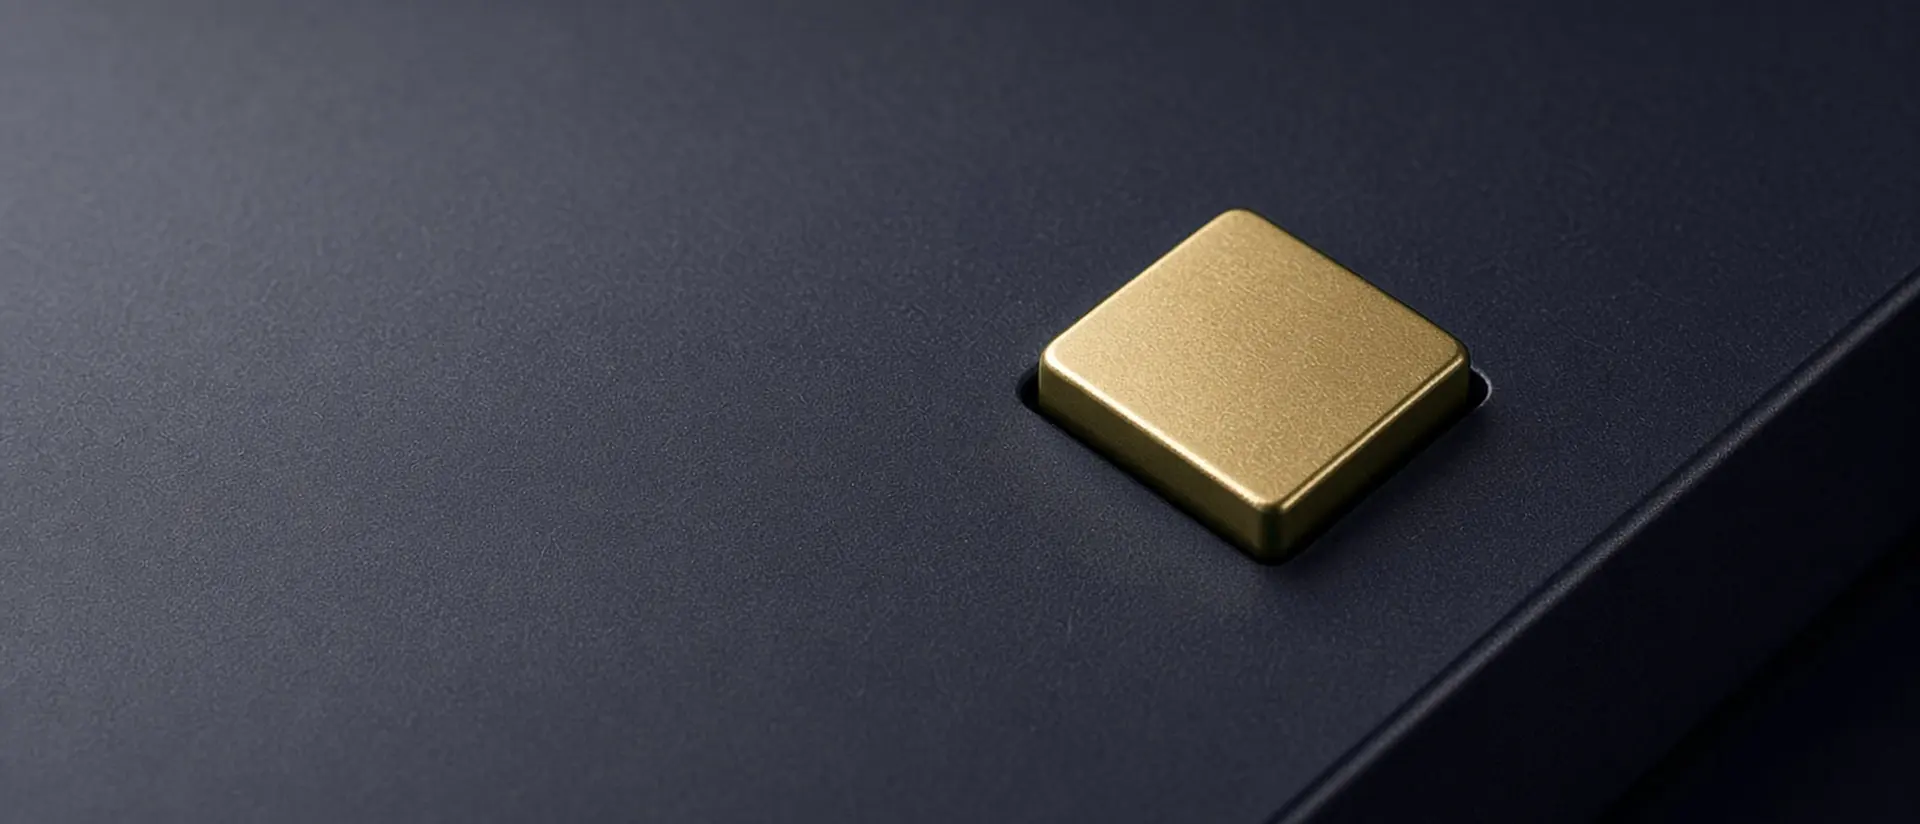
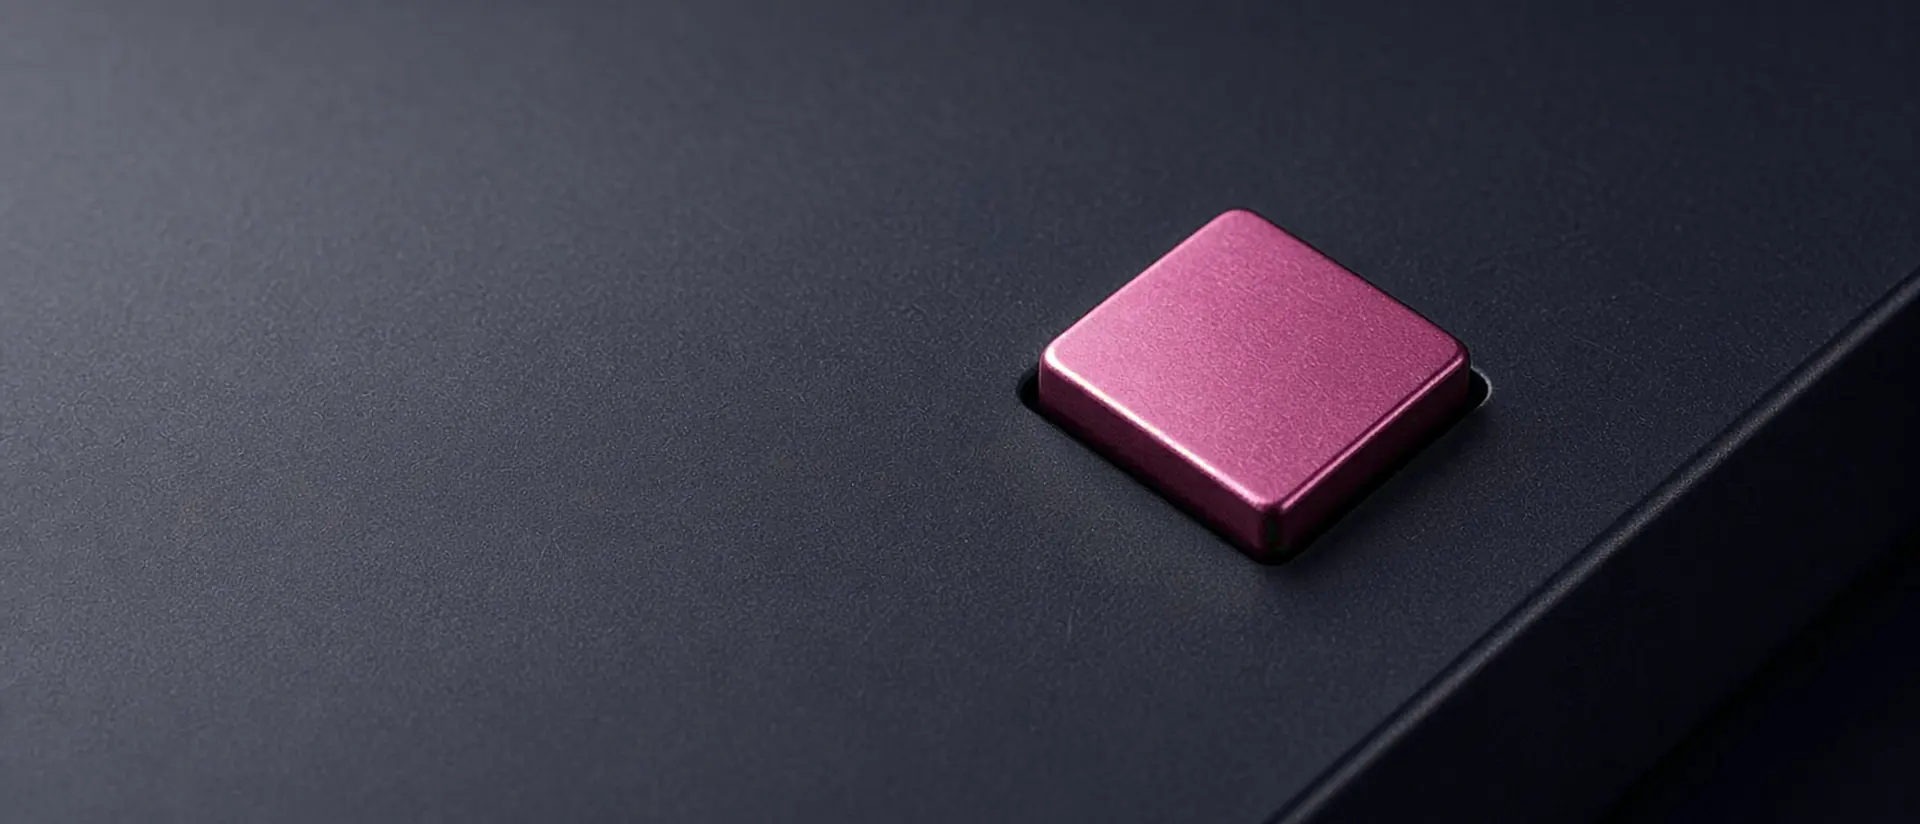
Visual audit fixes: violet for non-approval accents, pink approval key photo, wordmark weight, header fit
Claude-Session: https://claude.ai/code/session_01HaviUaj5fPJgmAg8BZKgUa

Changed region(s): [[0.5312, 0.2427, 0.7812, 0.6675]]

diff --git a/app/globals.css b/app/globals.css
@@ -49,6 +49,7 @@
   --color-cyan: var(--cyan);
   --color-cyan-ink: var(--cyan-ink);
   --color-violet: var(--violet);
+  --color-violet-hi: var(--violet-hi);
   --color-error: var(--error);
   --color-line: var(--line);
   --color-body: var(--body);
@@ -1612,9 +1613,9 @@ input[type="range"]::-moz-range-thumb {
     gap: 12px;
     margin: 0 16px 16px;
     padding: 12px 14px;
-    border: 1px solid rgb(244 114 182 / 0.35);
+    border: 1px solid rgb(139 92 246 / 0.35);
     border-radius: 10px;
-    background: rgb(244 114 182 / 0.08);
+    background: rgb(139 92 246 / 0.08);
     color: var(--ivory-64);
     font-size: 13px;
     line-height: 1.4;
@@ -1627,7 +1628,7 @@ input[type="range"]::-moz-range-thumb {
     height: 28px;
     place-items: center;
     border-radius: 9999px;
-    background: var(--gold);
+    background: var(--violet-hi);
     color: var(--obsidian);
   }
 
@@ -1705,9 +1706,9 @@ input[type="range"]::-moz-range-thumb {
   }
 
   .scope-card[data-first] {
-    border-color: rgb(244 114 182 / 0.45);
+    border-color: rgb(139 92 246 / 0.45);
     box-shadow:
-      0 0 0 4px rgb(244 114 182 / 0.08),
+      0 0 0 4px rgb(139 92 246 / 0.08),
       0 30px 60px -40px rgb(0 0 0 / 0.8);
   }
 
@@ -1718,7 +1719,7 @@ input[type="range"]::-moz-range-thumb {
   }
 
   .scope-num {
-    color: rgb(245 246 251 / 0.35);
+    color: rgb(245 246 251 / 0.45);
     font-family: var(--font-mono);
     font-size: 44px;
     font-weight: 600;
@@ -1759,10 +1760,10 @@ input[type="range"]::-moz-range-thumb {
       height: 28px;
       place-items: center;
       transform: translate(50%, -50%);
-      border: 1px solid rgb(244 114 182 / 0.5);
+      border: 1px solid rgb(139 92 246 / 0.5);
       border-radius: 9999px;
       background: var(--obsidian);
-      color: var(--gold);
+      color: var(--violet-hi);
     }
   }
 
@@ -1890,7 +1891,7 @@ input[type="range"]::-moz-range-thumb {
 
   a.icard:hover {
     transform: translateY(-2px);
-    border-color: rgb(244 114 182 / 0.5);
+    border-color: rgb(139 92 246 / 0.5);
   }
 
   .icard-title {
@@ -1979,9 +1980,9 @@ input[type="range"]::-moz-range-thumb {
     height: 36px;
     place-items: center;
     border-radius: 8px;
-    background: linear-gradient(180deg, var(--gold-hi), var(--gold));
+    background: linear-gradient(180deg, var(--violet-hi), var(--violet-hi));
     color: var(--obsidian);
-    font-family: var(--font-wordmark);
+    font-family: var(--font-sans);
     font-size: 20px;
     font-weight: 600;
   }
@@ -2016,7 +2017,7 @@ input[type="range"]::-moz-range-thumb {
 
   .photo-card:hover {
     transform: translateY(-2px);
-    border-color: rgb(244 114 182 / 0.5);
+    border-color: rgb(139 92 246 / 0.5);
   }
 
   .photo-card-img {
@@ -2084,7 +2085,7 @@ input[type="range"]::-moz-range-thumb {
     align-items: baseline;
     gap: 8px;
     margin: 0;
-    color: var(--cyan);
+    color: var(--violet-hi);
     white-space: nowrap;
     font-size: clamp(2.25rem, 1.6rem + 2vw, 3.5rem);
     font-variation-settings: "wdth" 115, "wght" 640;
@@ -2315,8 +2316,8 @@ input[type="range"]::-moz-range-thumb {
   }
 
   .art-row[data-move] {
-    border-color: rgb(244 114 182 / 0.5);
-    background: rgb(244 114 182 / 0.1);
+    border-color: rgb(139 92 246 / 0.5);
+    background: rgb(139 92 246 / 0.1);
   }
 
   .art-row-time {
@@ -2339,7 +2340,7 @@ input[type="range"]::-moz-range-thumb {
   }
 
   .art-row[data-move] .art-row-state {
-    background: var(--gold);
+    background: var(--violet-hi);
     color: var(--obsidian);
   }
 

diff --git a/components/layout/SiteHeader.tsx b/components/layout/SiteHeader.tsx
@@ -96,19 +96,19 @@ export function SiteHeader({ items }: { items: NavItem[] }) {
           onClick={close}
         >
           <BrandMark className="h-9 w-9 shrink-0" />
-          <span className="inline lg:max-xl:hidden">
+          <span className="inline">
             <BrandWordmark tone="dark" className="min-w-0 truncate text-[19px] sm:text-[21px]" />
           </span>
         </Link>
 
-        <div className="hidden items-center gap-6 lg:flex">
-          <nav className="flex items-center gap-6" aria-label="Primary">
+        <div className="hidden items-center gap-4 lg:flex xl:gap-6">
+          <nav className="flex items-center gap-4 xl:gap-6" aria-label="Primary">
             {items.map((item) => (
               <Link
                 key={item.href}
                 href={item.href}
                 aria-current={current(item)}
-                className={`flex min-h-11 items-center text-[15px] underline-offset-4 hover:underline ${
+                className={`flex min-h-11 items-center text-[15px] whitespace-nowrap underline-offset-4 hover:underline ${
                   isCurrent(item) ? "underline" : ""
                 }`}
               >

diff --git a/components/brand/BrandMark.tsx b/components/brand/BrandMark.tsx
@@ -41,7 +41,7 @@ export function BrandWordmark({ tone = "dark", className = "" }: { tone?: Tone; 
   const ink = tone === "light" ? "text-[#0B0D1C]" : "text-[#F5F6FB]";
 
   return (
-    <span className={`inline-block font-sans leading-none font-semibold tracking-[0.02em] ${ink} ${className}`}>
+    <span className={`inline-block font-sans leading-none font-semibold tracking-[0.02em] [font-variation-settings:"wght"_600] ${ink} ${className}`}>
       temp<span className="brand-gradient-text">o</span>rant
     </span>
   );

diff --git a/app/page.tsx b/app/page.tsx
@@ -65,7 +65,7 @@ export default function HomePage() {
               How it works
             </Link>
           </div>
-          <p className="small mt-12 font-semibold tracking-[0.08em] text-cyan uppercase">Our goals for you</p>
+          <p className="small mt-12 font-semibold tracking-[0.08em] text-violet-hi uppercase">Our goals for you</p>
           <dl className="stats mt-3">
             {STATS.map((stat) => (
               <div key={stat.label} className="stat">
